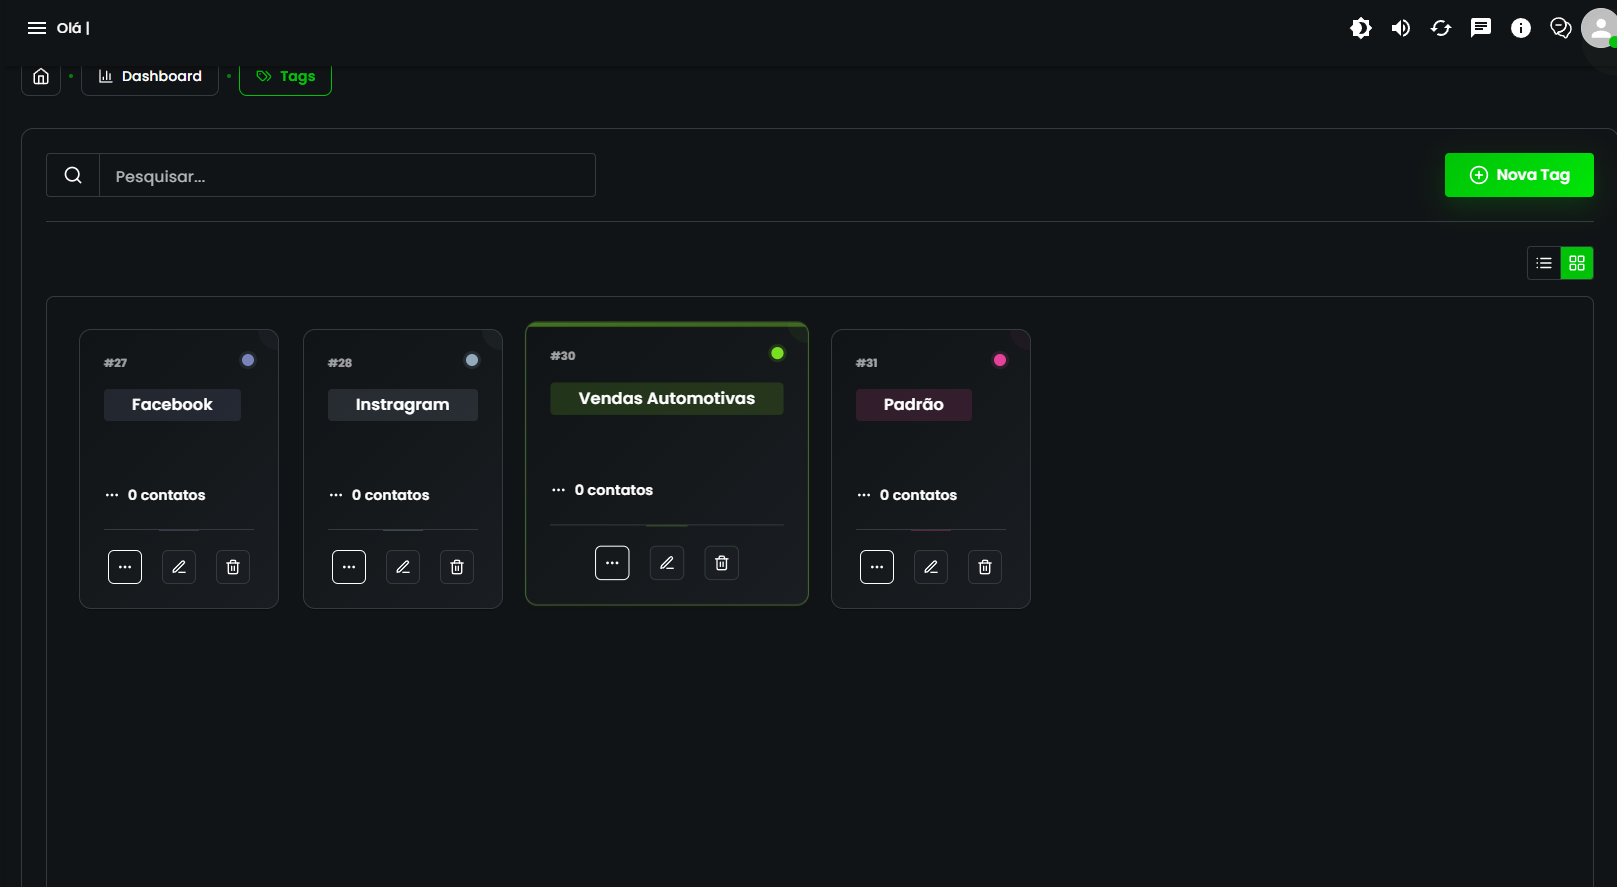
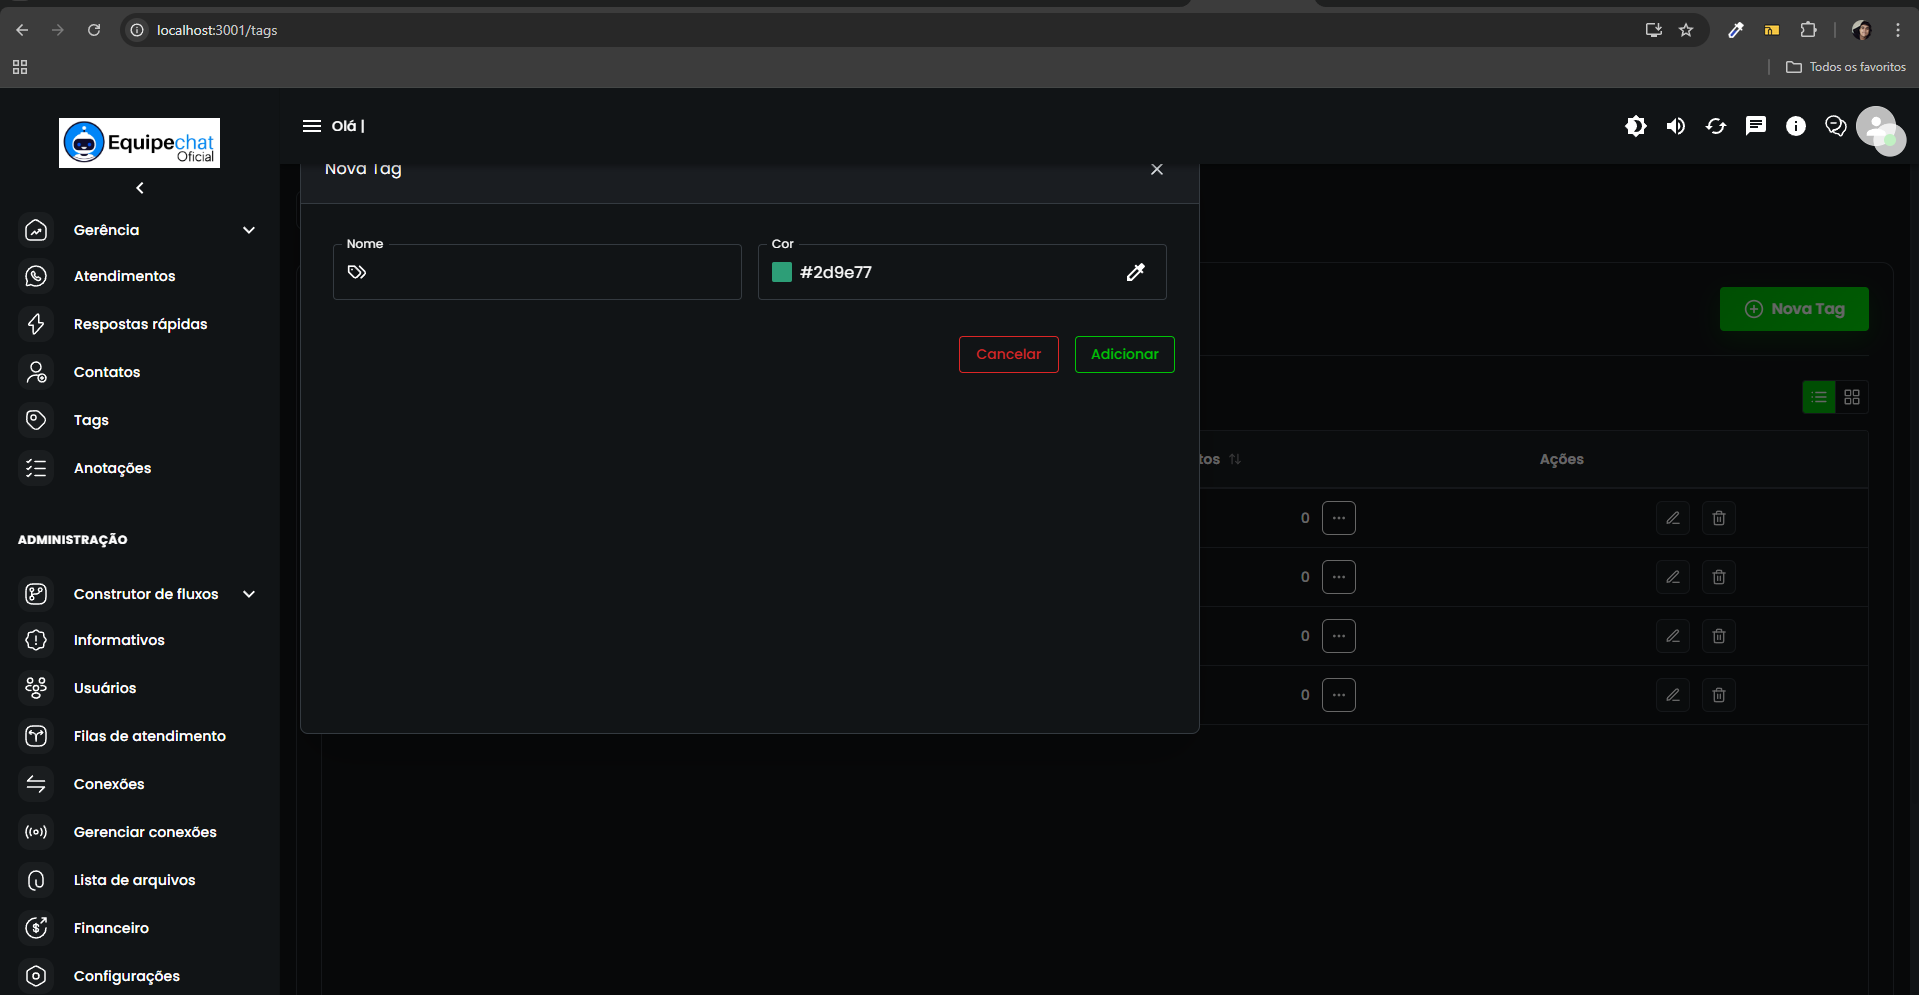
Style: Dimensionamento adaptativo com base na resolução da tela. Introduz nova lógica de detecção de tamanho e atualiza a estilização para uma melhor experiência do usuário. Modifica o TagForm para ocultar condicionalmente os botões de ação para integração com modal. Atualiza a página de Tags para o

diff --git a/frontend/src/components/ModernModal/index.jsx b/frontend/src/components/ModernModal/index.jsx
@@ -1,4 +1,5 @@
 import React, { useEffect, useState } from "react";
+import { createPortal } from "react-dom";
 import { Box, Typography, IconButton, Button } from "@mui/material";
 import { X } from "lucide-react";
 
@@ -47,15 +48,74 @@ const ModernModal = ({
   const [isVisible, setIsVisible] = useState(false);
   const [isAnimating, setIsAnimating] = useState(false);
 
-  // Configurações de tamanho
-  const sizeConfig = {
-    sm: { maxWidth: '600px', minWidth: '500px', minHeight: '400px' },
-    md: { maxWidth: '750px', minWidth: '650px', minHeight: '500px' },
-    lg: { maxWidth: '900px', minWidth: '800px', minHeight: '600px' },
-    xl: { maxWidth: '1200px', minWidth: '1000px', minHeight: '700px' }
+  // Sistema de detecção de resolução inteligente
+  const getScreenSize = () => {
+    if (typeof window === 'undefined') return 'lg';
+    
+    const width = window.innerWidth;
+    const height = window.innerHeight;
+    
+    // Detectar resoluções específicas
+    if (width >= 1920) return 'fullhd';     // Full HD+ (manter original)
+    if (width >= 1366) return 'laptop';     // 1366x768 (~60% largura)
+    if (width >= 1280) return 'hd';         // 1280x720 (~55% largura)
+    if (width >= 1024) return 'tablet';     // 1024x768 (~70% largura)
+    return 'mobile';                        // Mobile responsivo
   };
 
-  const currentSize = sizeConfig[size] || sizeConfig.md;
+  // Configurações de tamanho por resolução específica
+  const getResponsiveConfig = (baseSize) => {
+    const screenType = getScreenSize();
+    const baseSizes = {
+      sm: { width: 600, height: 400 },
+      md: { width: 750, height: 500 },
+      lg: { width: 900, height: 600 },
+      xl: { width: 1200, height: 700 }
+    };
+    
+    const currentBase = baseSizes[baseSize] || baseSizes.md;
+    
+    switch (screenType) {
+      case 'fullhd':
+        // Full HD+ - tamanhos originais (não mexer!)
+        return {
+          width: `${currentBase.width}px`,
+          minHeight: `${currentBase.height}px`
+        };
+      
+      case 'laptop':
+        // 1366x768 - ~60% da largura original
+        return {
+          width: `${Math.round(currentBase.width * 0.6)}px`,
+          minHeight: `${Math.round(currentBase.height * 0.85)}px`
+        };
+      
+      case 'hd':
+        // 1280x720 - ~55% da largura original  
+        return {
+          width: `${Math.round(currentBase.width * 0.55)}px`,
+          minHeight: `${Math.round(currentBase.height * 0.8)}px`
+        };
+      
+      case 'tablet':
+        // 1024x768 - ~70% da largura original
+        return {
+          width: `${Math.round(currentBase.width * 0.7)}px`,
+          minHeight: `${Math.round(currentBase.height * 0.85)}px`
+        };
+      
+      case 'mobile':
+      default:
+        // Mobile - responsivo inteligente
+        return {
+          width: '90vw',
+          maxWidth: '500px',
+          minHeight: '300px'
+        };
+    }
+  };
+
+  const currentSize = getResponsiveConfig(size);
 
   // Controlar visibilidade e animação
   useEffect(() => {
@@ -92,23 +152,25 @@ const ModernModal = ({
 
   if (!isVisible) return null;
 
-  return (
+  const modalContent = (
     <div
       style={{
         position: 'fixed',
         inset: 0,
         backgroundColor: 'rgba(0, 0, 0, 0.6)',
-        zIndex: 9999,
+        zIndex: 99999,
         overflowY: 'auto',
         display: 'flex',
         alignItems: 'center',
         justifyContent: 'center',
         minHeight: '100vh',
-        padding: '20px',
+        padding: getScreenSize() === 'mobile' ? '10px' : '20px',
         opacity: isAnimating ? 1 : 0,
-        transition: 'opacity 0.15s ease-out'
+        transition: 'all 0.15s ease-out'
       }}
       onClick={(e) => {
+        e.preventDefault();
+        e.stopPropagation();
         if (e.target === e.currentTarget) {
           onClose();
         }
@@ -117,9 +179,9 @@ const ModernModal = ({
       <div
         className={`animate__animated ${isAnimating ? 'animate__zoomInUp' : 'animate__zoomOut'}`}
         style={{
+          animationDuration: '0.3s',
           width: '100%',
-          ...currentSize,
-          animationDuration: '0.3s'
+          maxWidth: '100%'
         }}
       >
         <Box
@@ -129,6 +191,13 @@ const ModernModal = ({
             overflow: 'hidden',
             boxShadow: '0 25px 50px -12px rgba(0, 0, 0, 0.25)',
             border: '1px solid var(--border-primary)',
+            width: currentSize.width,
+            maxWidth: currentSize.maxWidth || 'none',
+            minHeight: currentSize.minHeight,
+            maxHeight: getScreenSize() === 'mobile' ? '90vh' : 'none',
+            display: 'flex',
+            flexDirection: 'column',
+            mx: 'auto',
             ...sx
           }}
           {...props}
@@ -139,18 +208,21 @@ const ModernModal = ({
               display: 'flex',
               alignItems: 'center',
               justifyContent: 'space-between',
-              px: 3,
-              py: 2,
+              px: { xs: 2, sm: 3 },
+              py: { xs: 1.5, sm: 2 },
               backgroundColor: 'var(--bg-secondary)',
-              borderBottom: '1px solid var(--border-primary)'
+              borderBottom: '1px solid var(--border-primary)',
+              flexShrink: 0
             }}
           >
             <Typography
               variant="h6"
               sx={{
                 fontWeight: 700,
-                fontSize: '1.125rem',
-                color: 'var(--text-primary)'
+                fontSize: { xs: '1rem', sm: '1.125rem' },
+                color: 'var(--text-primary)',
+                lineHeight: 1.2,
+                pr: 1
               }}
             >
               {title}
@@ -177,8 +249,11 @@ const ModernModal = ({
           {/* Content */}
           <Box
             sx={{
-              p: 3,
-              color: 'var(--text-primary)'
+              p: { xs: 2, sm: 3 },
+              color: 'var(--text-primary)',
+              flex: 1,
+              overflow: 'auto',
+              maxHeight: '100%'
             }}
           >
             {children}
@@ -192,10 +267,11 @@ const ModernModal = ({
                 justifyContent: 'flex-end',
                 alignItems: 'center',
                 gap: 2,
-                px: 3,
-                py: 2,
+                px: { xs: 2, sm: 3 },
+                py: { xs: 1.5, sm: 2 },
                 borderTop: '1px solid var(--border-primary)',
-                backgroundColor: 'var(--bg-secondary)'
+                backgroundColor: 'var(--bg-secondary)',
+                flexShrink: 0
               }}
             >
               {actions.map((action, index) => {
@@ -204,9 +280,10 @@ const ModernModal = ({
                   const baseStyles = {
                     textTransform: 'none',
                     fontWeight: 600,
-                    px: 3,
-                    py: 1,
-                    minWidth: 100,
+                    px: { xs: 2, sm: 3 },
+                    py: { xs: 0.8, sm: 1 },
+                    minWidth: { xs: 80, sm: 100 },
+                    fontSize: { xs: '0.875rem', sm: '0.95rem' },
                     variant: 'outlined',
                     backgroundColor: 'transparent',
                     borderRadius: '4px !important'
@@ -281,6 +358,8 @@ const ModernModal = ({
       </div>
     </div>
   );
+
+  return createPortal(modalContent, document.body);
 };
 
 export default ModernModal;

diff --git a/frontend/src/pages/Tags/index.jsx b/frontend/src/pages/Tags/index.jsx
@@ -245,13 +245,25 @@ const Tags = () => {
       <ModernModal
         open={tagModalOpen}
         onClose={handleCloseTagModal}
-        title={
-          <Typography sx={{ color: 'var(--text-gray-medium)' }}>
-            {selectedTag ? "Editar Tag" : "Nova Tag"}
-          </Typography>
-        }
+        title={selectedTag ? "Editar Tag" : "Nova Tag"}
         size="lg"
         showCloseButton={true}
+        actions={[
+          {
+            type: 'cancel',
+            label: 'Cancelar',
+            onClick: handleCloseTagModal
+          },
+          {
+            type: 'save',
+            label: selectedTag ? 'Salvar' : 'Adicionar',
+            onClick: () => {
+              // Vamos trigger o submit do form
+              const submitButton = document.querySelector('#tag-form-submit');
+              if (submitButton) submitButton.click();
+            }
+          }
+        ]}
       >
         <TagForm
           tagId={selectedTag && selectedTag.id}
@@ -262,6 +274,7 @@ const Tags = () => {
             handleCloseTagModal();
           }}
           onCancel={handleCloseTagModal}
+          hideButtons={true}
         />
       </ModernModal>
 

diff --git a/frontend/src/components/TagForm/index.jsx b/frontend/src/components/TagForm/index.jsx
@@ -54,8 +54,9 @@ const tagSchema = Yup.object().shape({
  * @param {Function} props.onSave - Callback chamado após salvar
  * @param {Function} props.onCancel - Callback chamado ao cancelar
  * @param {boolean} props.loading - Estado de loading externo
+ * @param {boolean} props.hideButtons - Se true, oculta os botões do formulário (para uso com modal)
  */
-const TagForm = ({ tagId, kanban = 0, onSave, onCancel, loading: externalLoading }) => {
+const TagForm = ({ tagId, kanban = 0, onSave, onCancel, loading: externalLoading, hideButtons = false }) => {
   const { user } = useContext(AuthContext);
   const [colorPickerModalOpen, setColorPickerModalOpen] = useState(false);
   const [lanes, setLanes] = useState([]);
@@ -481,6 +482,7 @@ const TagForm = ({ tagId, kanban = 0, onSave, onCancel, loading: externalLoading
             </Box>
 
             {/* Botões de ação - padronizados */}
+            {!hideButtons && (
             <Box sx={{ 
               display: 'flex', 
               justifyContent: 'flex-end', 
@@ -512,6 +514,7 @@ const TagForm = ({ tagId, kanban = 0, onSave, onCancel, loading: externalLoading
                 {i18n.t("tagModal.buttons.cancel")}
               </Button>
               <Button
+                id="tag-form-submit"
                 type="submit"
                 disabled={isSubmitting || externalLoading || (kanban === 1 && !values.funilId)}
                 variant="outlined"
@@ -552,6 +555,7 @@ const TagForm = ({ tagId, kanban = 0, onSave, onCancel, loading: externalLoading
                 )}
               </Button>
             </Box>
+            )}
           </Form>
         )}
       </Formik>